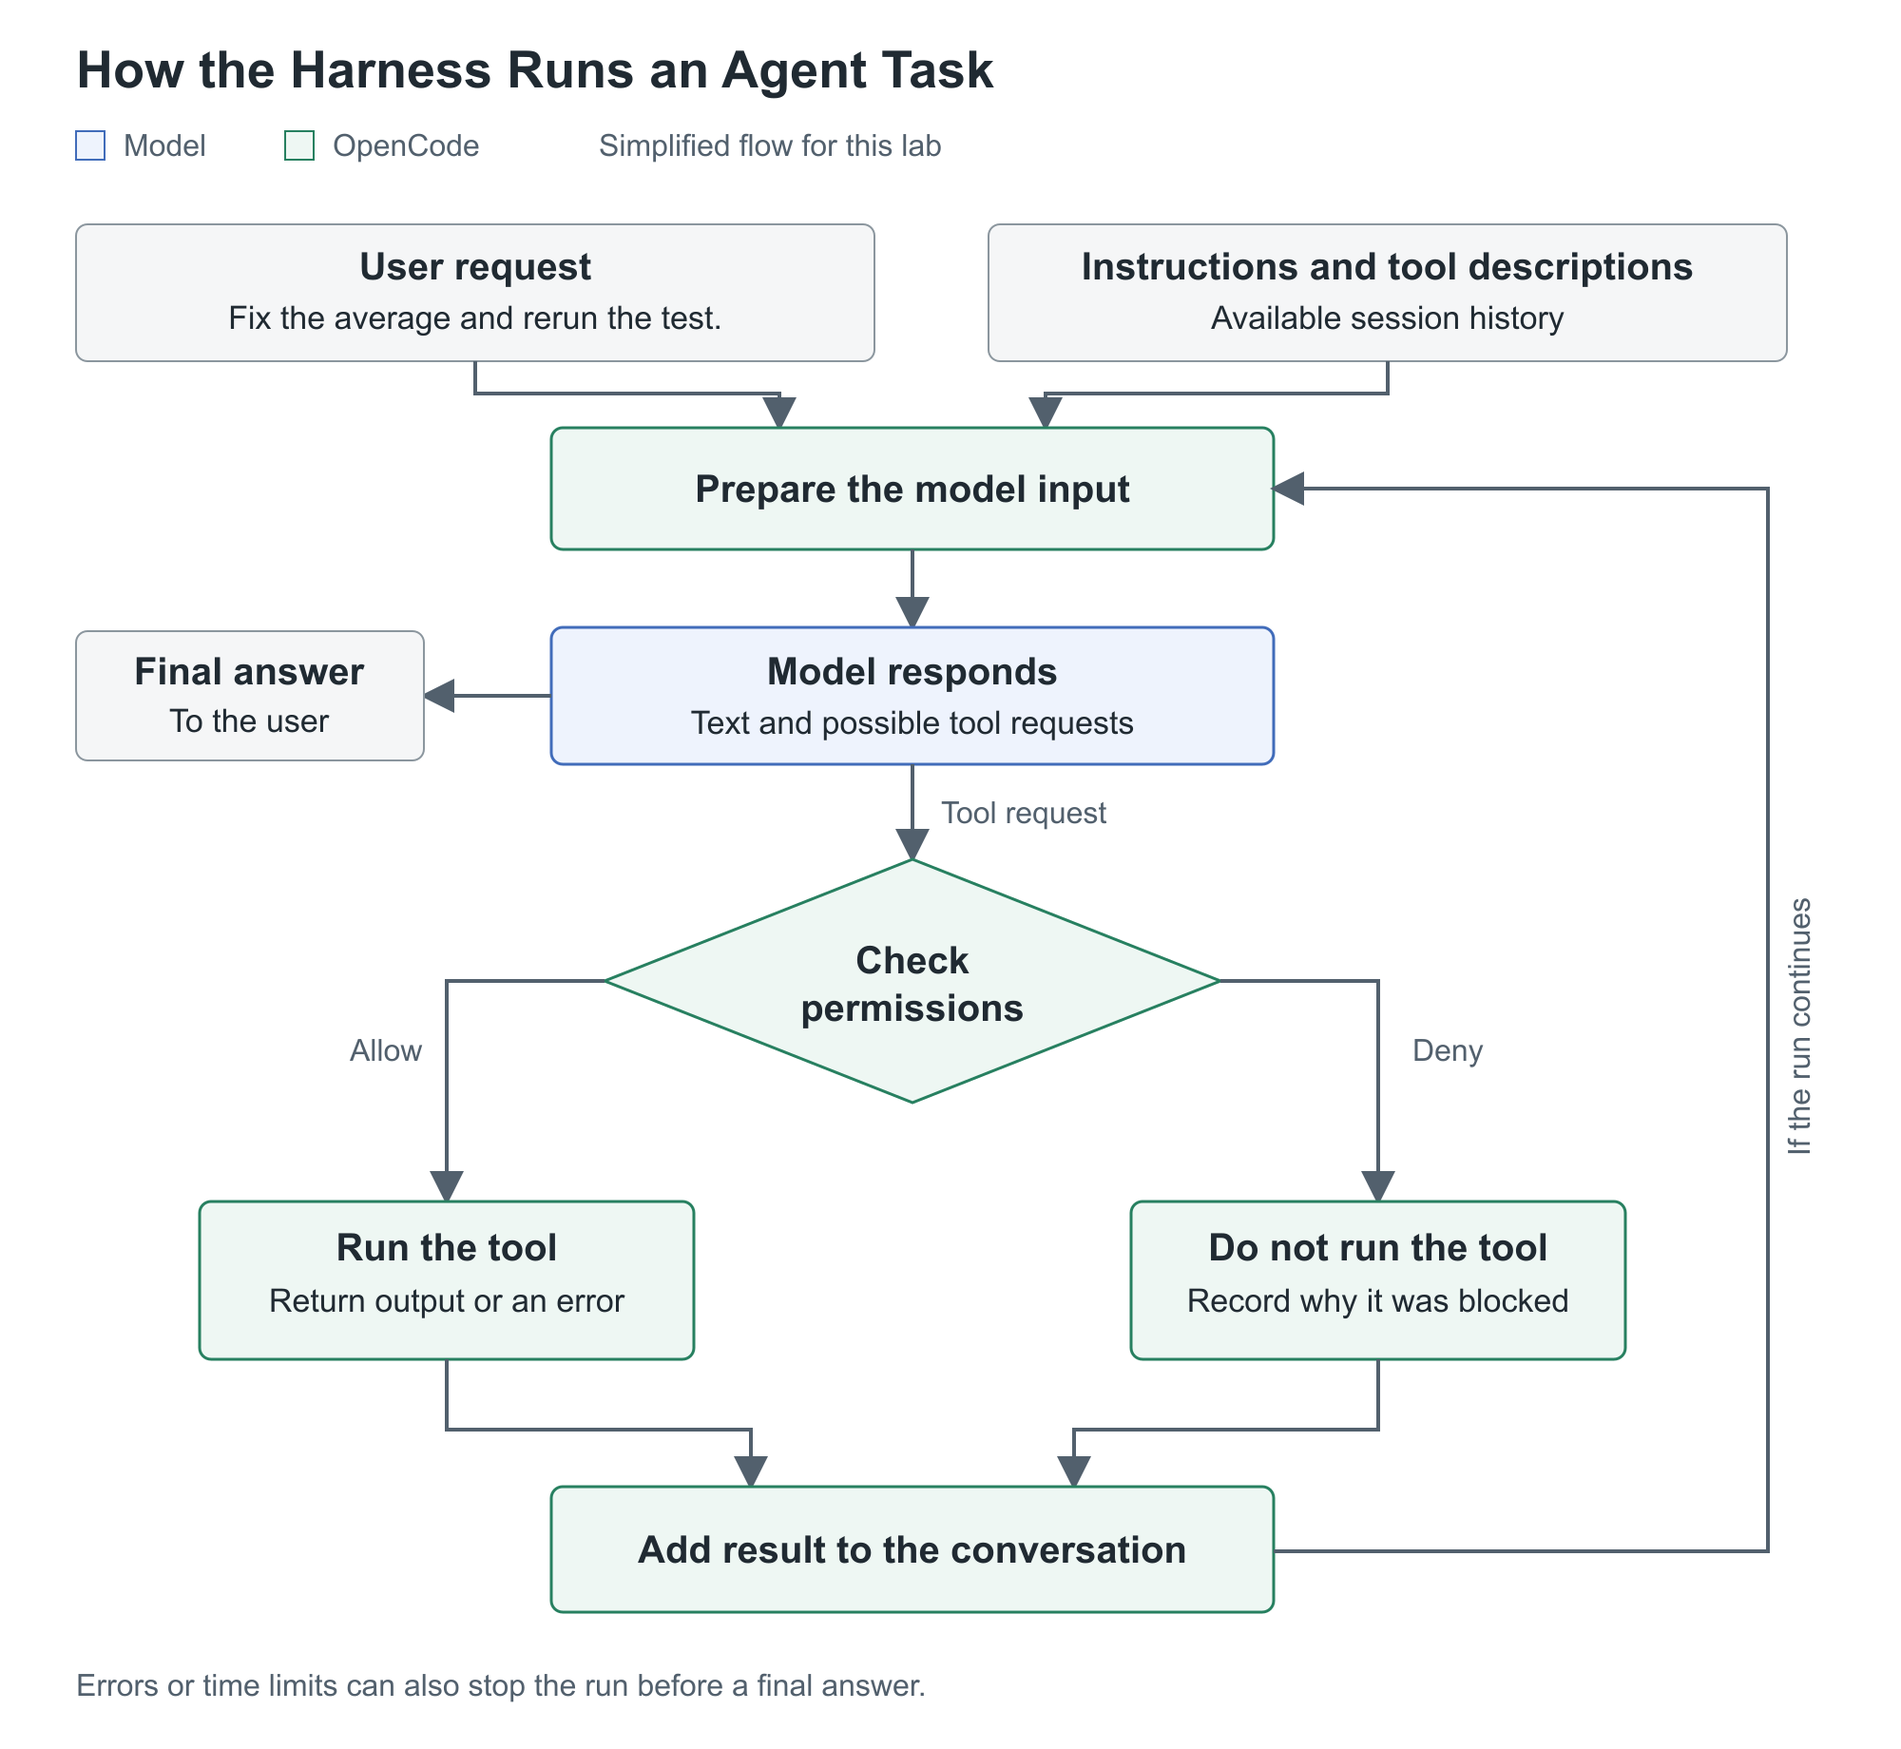
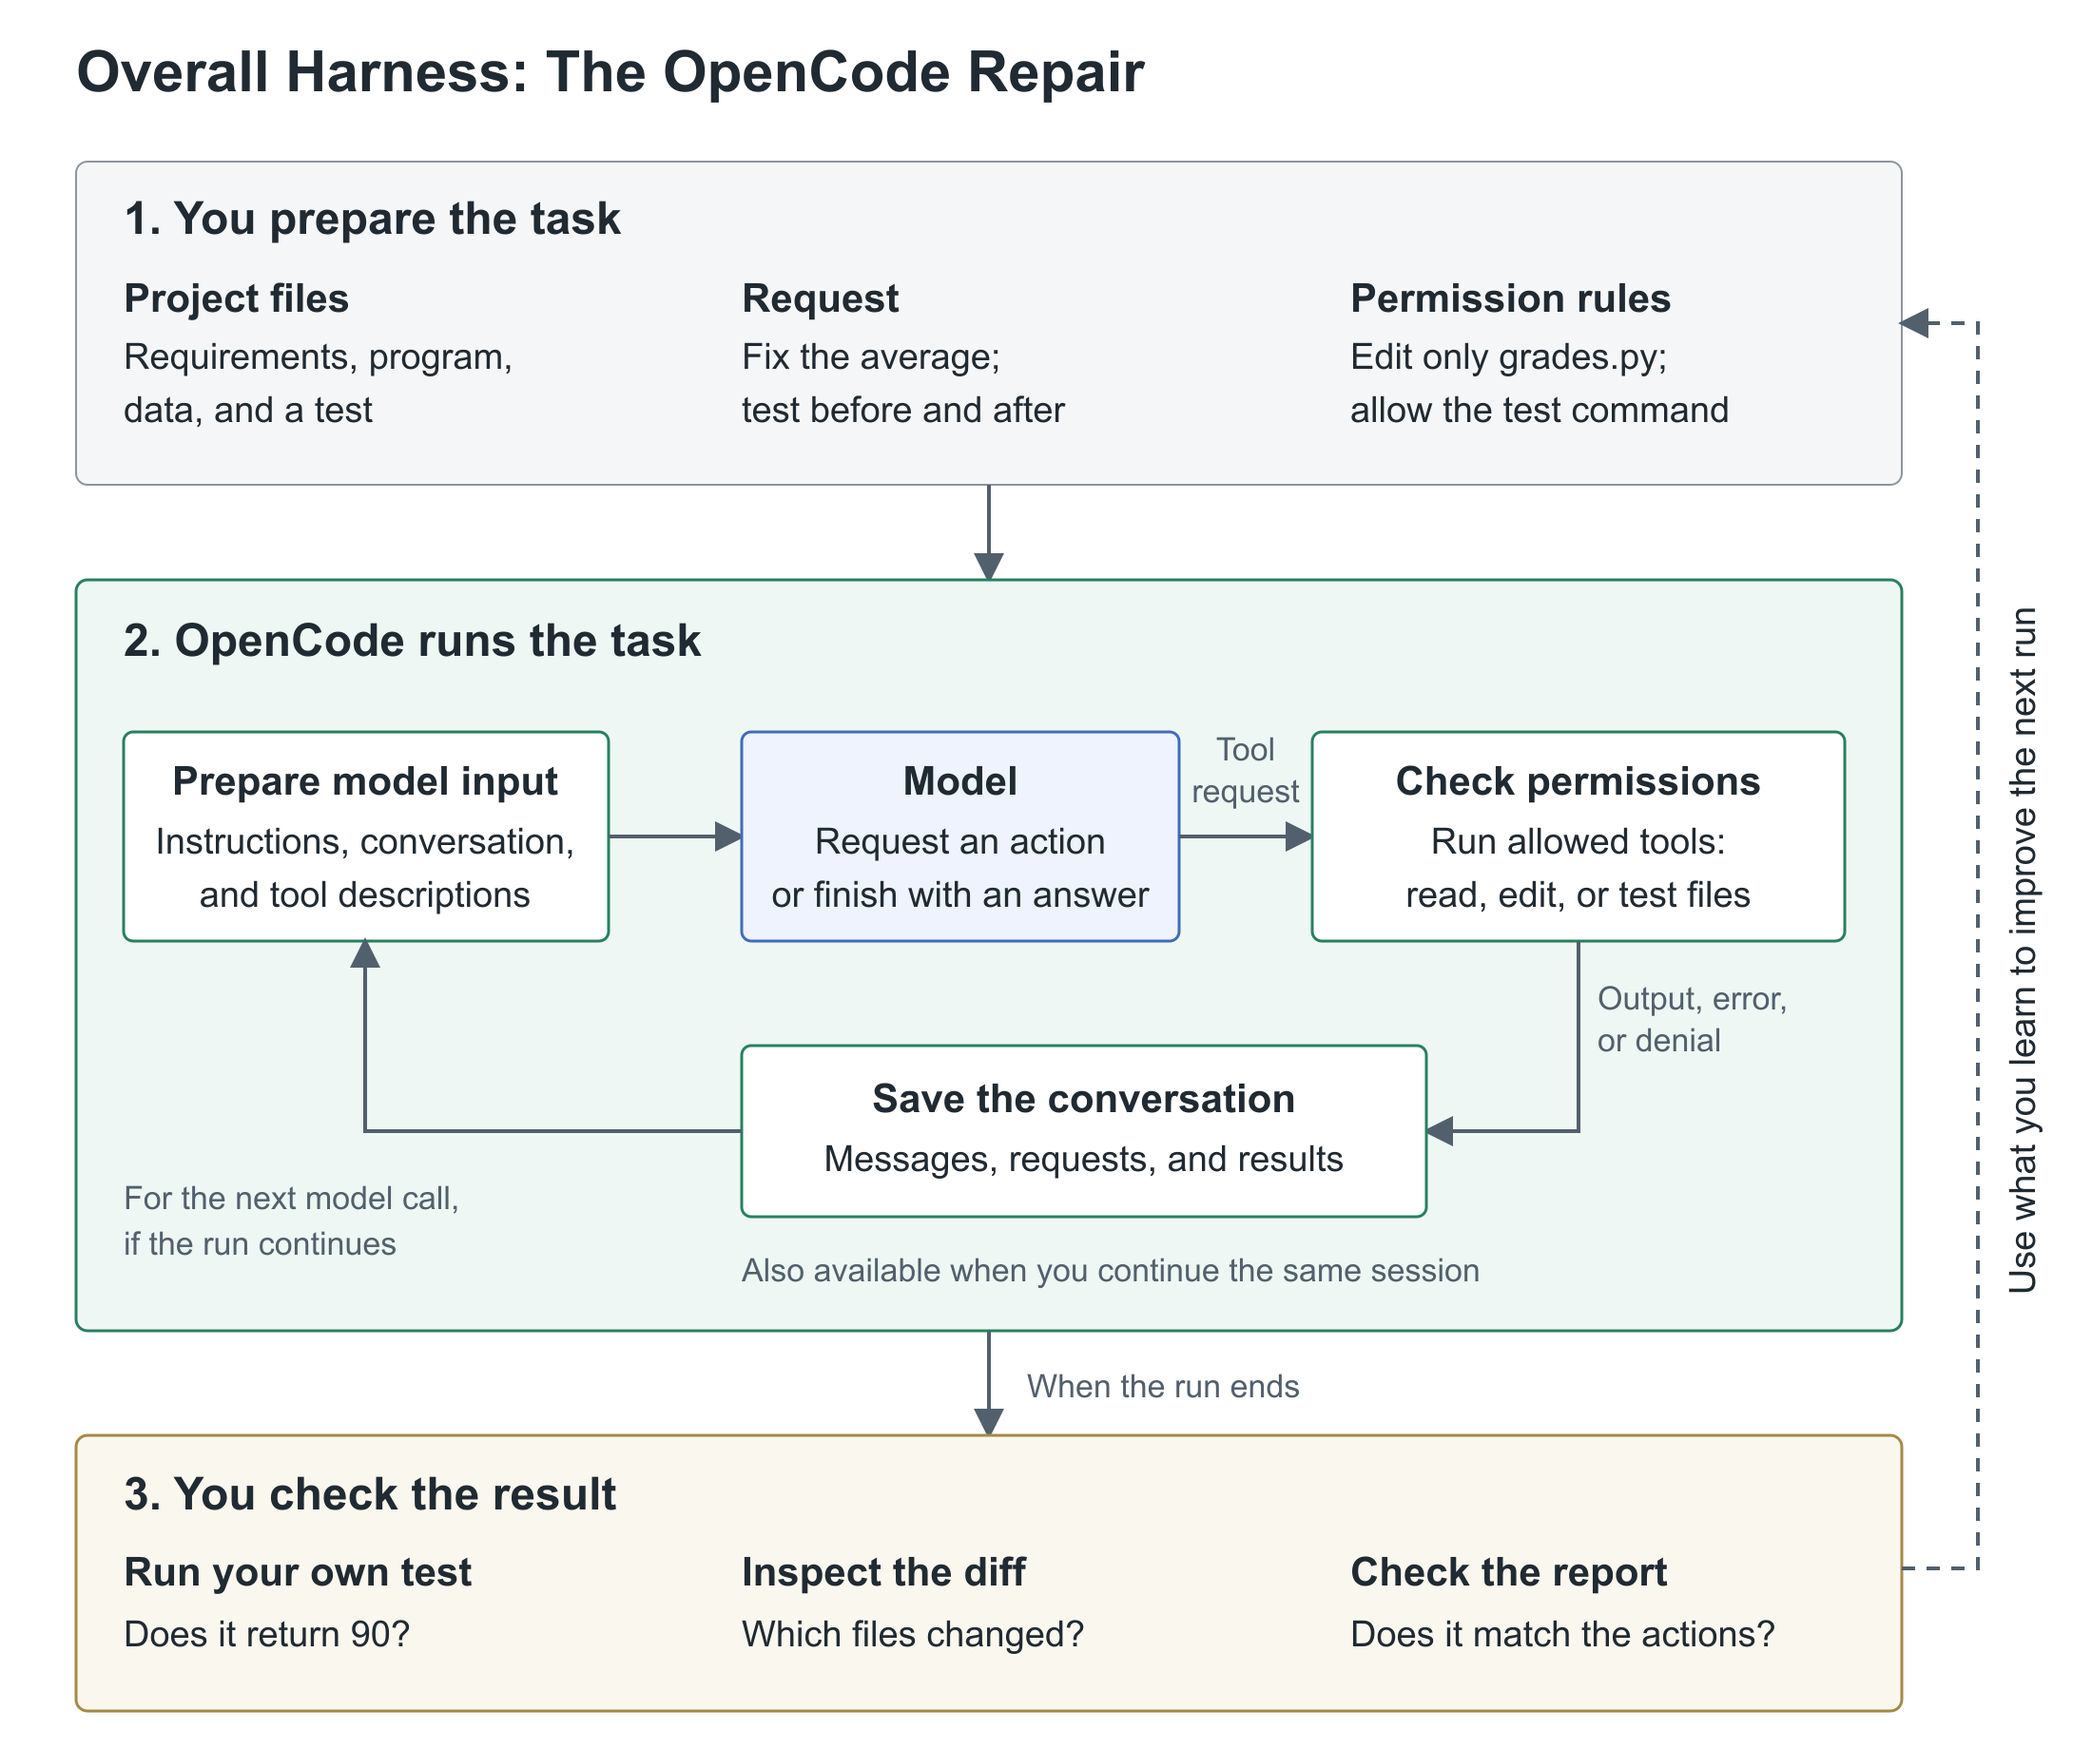
[doc] Clarify the OpenCode Overall Harness case study
- Connect the repair observations, harness components, and source walkthrough.
- Update the SVG and PNG overview to include task preparation and independent checks.
- Explain provider configuration, system instructions, and tool-result handling.
- Extend the source-excerpt check for system prompt assembly.

diff --git a/labs/opencode/overall-harness/test_lab_support.py b/labs/opencode/overall-harness/test_lab_support.py
@@ -491,7 +491,7 @@ class NotebookTests(unittest.TestCase):
                 self.assertIn("/blob/v1.18.34/" + repo_path, "".join(cell["source"]))
                 verified_paths.add(ref["path"])
         self.assertEqual(verified_paths, {
-            "cli/cmd/run.ts", "session/llm.ts", "session/tools.ts", "tool/read.ts",
+            "cli/cmd/run.ts", "session/llm.ts", "session/llm/request.ts", "session/tools.ts", "tool/read.ts",
             "session/processor.ts", "session/prompt.ts", "session/message-v2.ts",
         })
 
